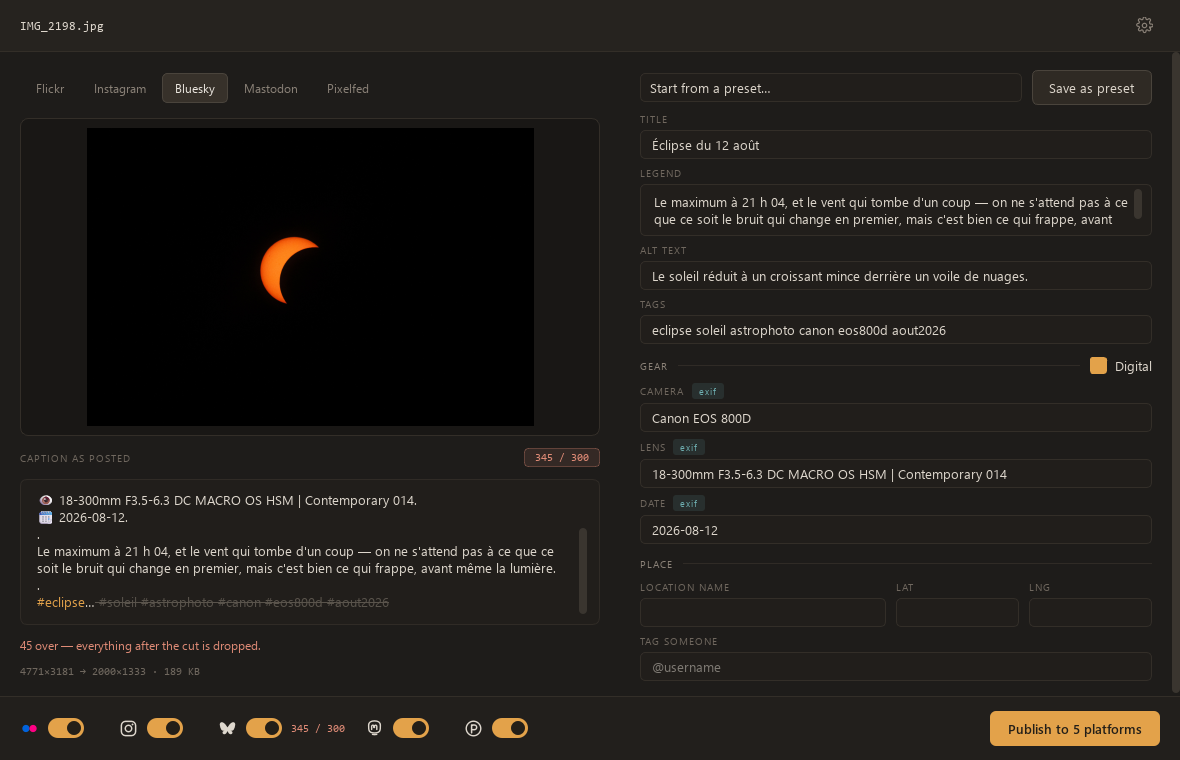
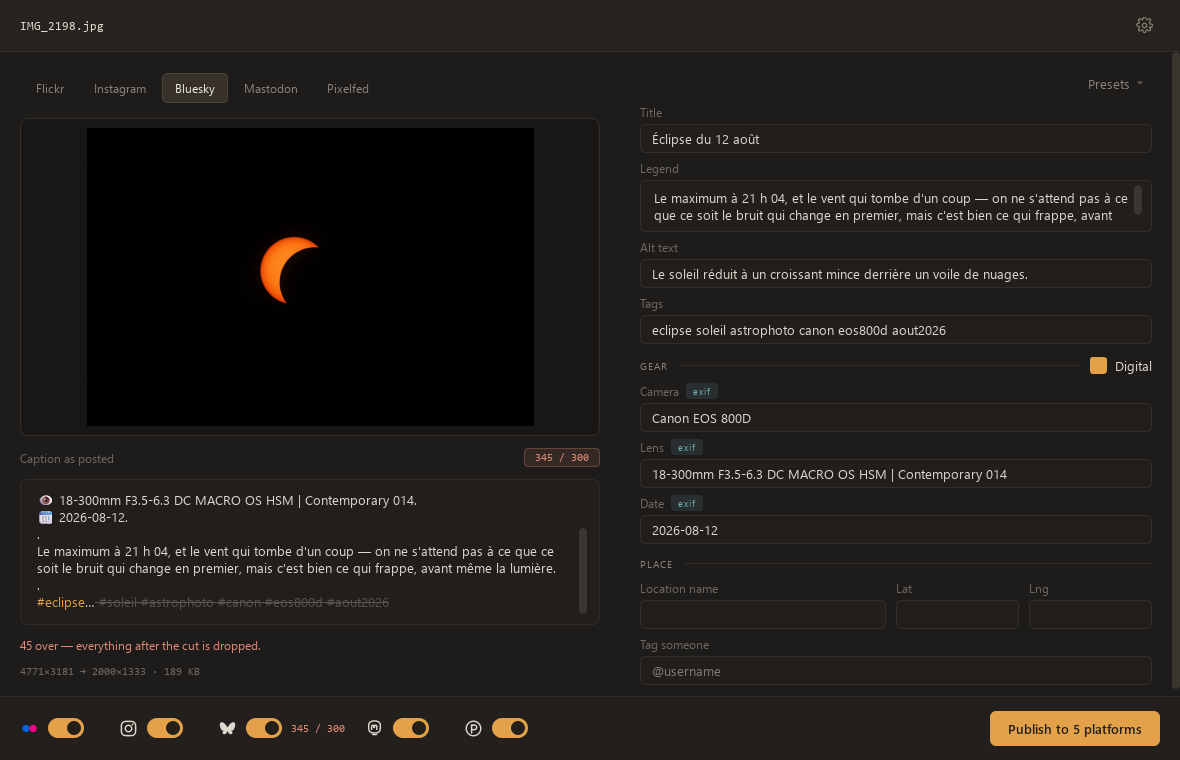
Quieten the labels, and fold the preset row into one control
Every field carried a 10px uppercase letter-spaced label. Fourteen of those is
a lot of small shouting for words as ordinary as Title and Lens, so they become
sentence case at a readable size. The section headings keep their capitals,
which is what gives the form a hierarchy instead of one flat shout.

The preset row was a full-width combo and a solid button at the top of the
form, for something reached now and then rather than on every post. Both become
one quiet Presets menu, built when it opens so it always shows what is on disk:
the presets to apply, then Save as preset, greyed until there is something
worth saving. The form gains back a whole row.

README screenshots retaken.

diff --git a/libs/gui/window.py b/libs/gui/window.py
@@ -11,11 +11,10 @@ from pathlib import Path
 
 from PIL import Image
 from PySide6.QtCore import QSize, Qt, QStringListModel
-from PySide6.QtGui import QIcon, QPixmap
+from PySide6.QtGui import QAction, QIcon, QPixmap
 from PySide6.QtWidgets import (
     QCheckBox,
     QGraphicsOpacityEffect,
-    QComboBox,
     QCompleter,
     QDialog,
     QFrame,
@@ -23,6 +22,7 @@ from PySide6.QtWidgets import (
     QLabel,
     QLineEdit,
     QMainWindow,
+    QMenu,
     QPlainTextEdit,
     QPushButton,
     QScrollArea,
@@ -241,7 +241,7 @@ class MainWindow(QMainWindow):
         box.addWidget(frame)
 
         head = QHBoxLayout()
-        head.addWidget(label("CAPTION AS POSTED", "label"))
+        head.addWidget(label("Caption as posted", "label"))
         head.addStretch(1)
         self.counter = label("", "counter", over="false")
         head.addWidget(self.counter)
@@ -281,16 +281,18 @@ class MainWindow(QMainWindow):
         box.setContentsMargins(20, 18, 20, 18)
         box.setSpacing(7)
 
-        # Starting from a preset comes before filling anything in, so it sits
-        # at the top rather than buried under the form.
+        # One quiet control where a full-width combo and a solid button used to
+        # sit: presets are reached now and then, not on every post.
+        self.preset_button = QPushButton("Presets")
+        self.preset_button.setObjectName("quiet")
+        self.preset_button.setCursor(Qt.PointingHandCursor)
+        self.preset_menu = QMenu(self)
+        self.preset_menu.aboutToShow.connect(self._fill_preset_menu)
+        self.preset_button.setMenu(self.preset_menu)
+
         chooser = QHBoxLayout()
-        chooser.setSpacing(10)
-        self.preset_box = QComboBox()
-        self.preset_box.activated.connect(self._apply_preset)
-        self.preset_save = QPushButton("Save as preset")
-        self.preset_save.clicked.connect(self._save_preset)
-        chooser.addWidget(self.preset_box, 1)
-        chooser.addWidget(self.preset_save)
+        chooser.addStretch(1)
+        chooser.addWidget(self.preset_button)
         box.addLayout(chooser)
 
         collected = []
@@ -374,24 +376,37 @@ class MainWindow(QMainWindow):
 
     def _refresh_presets(self):
         self.presets = presets.load()
-        self.preset_box.clear()
-        self.preset_box.addItem("Start from a preset…")
-        self.preset_box.addItems(list(self.presets))
-        self.preset_box.setEnabled(bool(self.presets))
 
-    def _apply_preset(self, index):
-        if index <= 0:
+    def _fill_preset_menu(self):
+        """Built when opened, so it always shows what is on disk right now."""
+        self.preset_menu.clear()
+        for name in self.presets:
+            action = QAction(name, self.preset_menu)
+            action.triggered.connect(lambda _=False, chosen=name: self._apply_preset(chosen))
+            self.preset_menu.addAction(action)
+        if self.presets:
+            self.preset_menu.addSeparator()
+
+        save = QAction("Save as preset…", self.preset_menu)
+        save.triggered.connect(self._save_preset)
+        save.setEnabled(
+            self.post is not None
+            and any(getattr(self.post, name, "") for name in self._preset_fields())
+        )
+        self.preset_menu.addAction(save)
+
+    def _apply_preset(self, name):
+        values = self.presets.get(name, {})
+        if not values:
             return
-        values = self.presets.get(self.preset_box.itemText(index), {})
         # A preset carrying a film is a film preset: bring those fields back
         # into view before writing into them.
         if any(values.get(field) for field in ("film", "lab", "scan")):
             self.digital.setChecked(False)
-        for name, field in self._preset_fields().items():
-            if values.get(name):
-                field.widget.setText(values[name])
+        for field_name, field in self._preset_fields().items():
+            if values.get(field_name):
+                field.widget.setText(values[field_name])
                 field.flag("preset")
-        self.preset_box.setCurrentIndex(0)
         self._on_edit()
 
     def _save_preset(self):
@@ -699,9 +714,6 @@ class MainWindow(QMainWindow):
             else "Publish"
         )
         self.publish_button.setEnabled(bool(chosen) and self.post is not None)
-        self.preset_save.setEnabled(
-            any(getattr(self.post, name, "") for name in self._preset_fields())
-        )
 
     def _set_ready(self, ready):
         """Nothing can be published before a picture is in."""

diff --git a/libs/gui/theme.py b/libs/gui/theme.py
@@ -42,7 +42,7 @@ QFrame#rule {{ background: #302b26; max-height: 1px; border: none; }}
 QLabel {{ background: transparent; }}
 QLabel[role="wordmark"] {{ font-family: {mono}; font-size: 15px; font-weight: 600;
     letter-spacing: 1px; color: {accent}; }}
-QLabel[role="label"] {{ font-size: 10px; letter-spacing: 1px; color: {faint}; }}
+QLabel[role="label"] {{ font-size: 11.5px; color: {faint}; }}
 QLabel[role="section"] {{ font-size: 10px; letter-spacing: 1px; color: {muted}; }}
 QLabel[role="mono"] {{ font-family: {mono}; font-size: 11px; color: {faint}; }}
 QLabel[role="hint"] {{ font-size: 12px; color: {muted}; }}
@@ -101,6 +101,17 @@ QComboBox {{ background: {field}; border: 1px solid {border}; border-radius: 5px
     padding: 4px 9px; color: {text_dim}; }}
 QComboBox:hover {{ border-color: {border_hi}; }}
 QComboBox::drop-down {{ border: none; width: 18px; }}
+
+QMenu {{ background: #2a2622; border: 1px solid {border_hi}; border-radius: 6px;
+    padding: 4px; }}
+QMenu::item {{ padding: 6px 14px; border-radius: 4px; color: {text_dim}; }}
+QMenu::item:selected {{ background: #37312a; color: {text}; }}
+QMenu::item:disabled {{ color: {ghost}; }}
+QMenu::separator {{ height: 1px; background: #302b26; margin: 4px 6px; }}
+
+QPushButton#quiet {{ background: transparent; border: none; color: {muted};
+    padding: 5px 10px; border-radius: 5px; }}
+QPushButton#quiet:hover {{ background: #2f2a24; color: {text_dim}; }}
 
 QScrollArea {{ border: none; }}
 QScrollBar:vertical {{ background: transparent; width: 8px; margin: 0; }}

diff --git a/libs/gui/presetdialog.py b/libs/gui/presetdialog.py
@@ -52,7 +52,7 @@ class SavePresetDialog(QDialog):
         title.setStyleSheet("font-size: 15px; font-weight: 600; color: %s;" % theme.TEXT)
         box.addWidget(title)
 
-        box.addWidget(label("NAME", "label"))
+        box.addWidget(label("Name", "label"))
         self.name = QLineEdit()
         self.name.setPlaceholderText("Leica and Portra")
         self.name.textChanged.connect(self._revalidate)
@@ -62,7 +62,7 @@ class SavePresetDialog(QDialog):
         box.addWidget(self.warning)
 
         box.addSpacing(4)
-        box.addWidget(label("WHAT IT CARRIES", "label"))
+        box.addWidget(label("What it carries", "label"))
         box.addWidget(rule())
 
         for field in presets.FIELDS:

diff --git a/libs/gui/settingsdialog.py b/libs/gui/settingsdialog.py
@@ -60,7 +60,7 @@ class SettingsDialog(QDialog):
         for heading, group in settings.GROUPS:
             fields.addWidget(section(heading))
             for name, caption, secret in group:
-                fields.addWidget(label(caption.upper(), "label"))
+                fields.addWidget(label(caption, "label"))
                 widget = QLineEdit(current.get(name, ""))
                 if secret:
                     widget.setEchoMode(QLineEdit.Password)

diff --git a/libs/gui/widgets.py b/libs/gui/widgets.py
@@ -84,7 +84,7 @@ class Field(QWidget):
         self._head = QHBoxLayout()
         self._head.setContentsMargins(0, 0, 0, 0)
         self._head.setSpacing(7)
-        self._head.addWidget(label(caption.upper(), "label"))
+        self._head.addWidget(label(caption, "label"))
         self._head.addStretch(1)
 
         box.addLayout(self._head)
